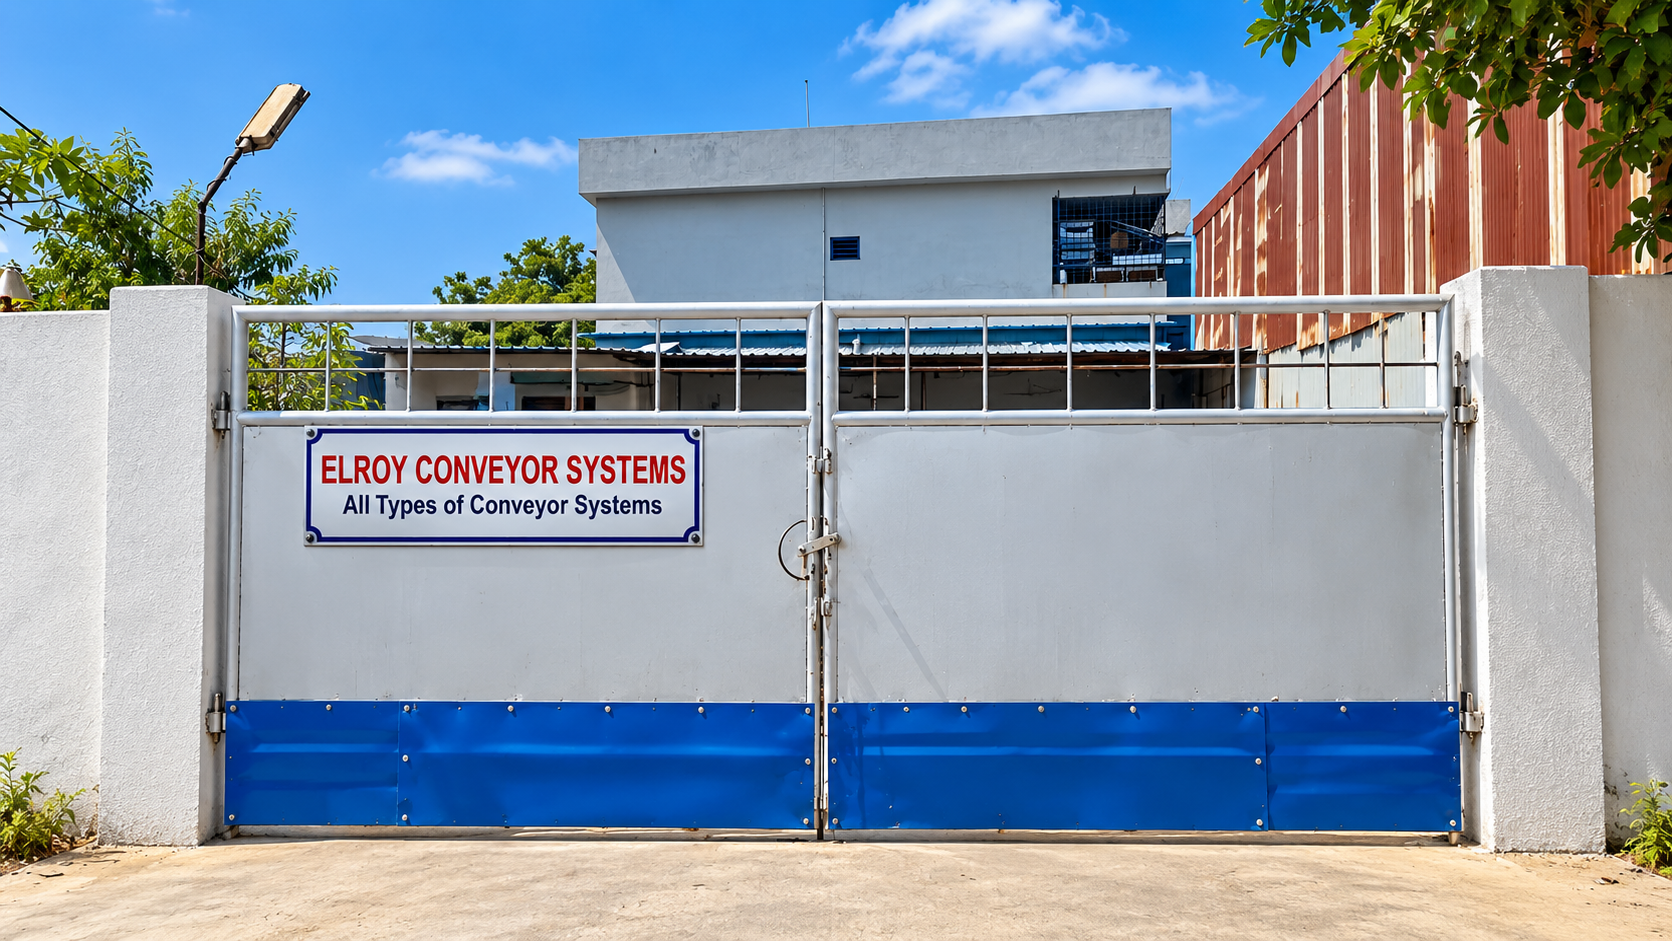
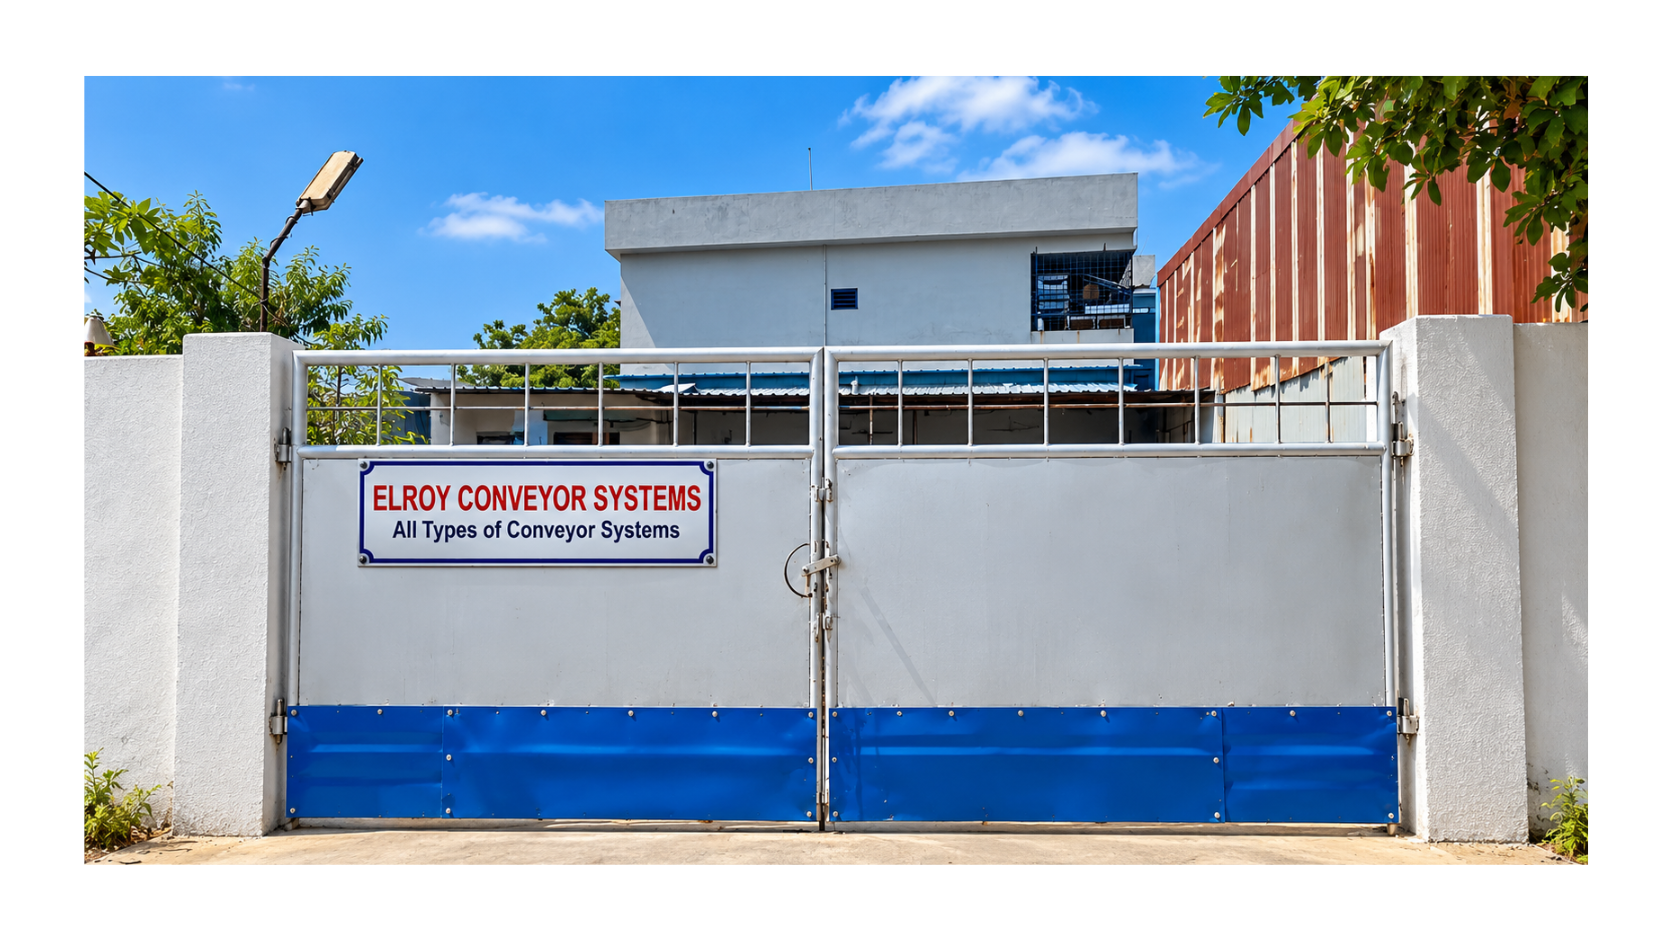
Update company factory photo

diff --git a/style.css b/style.css
@@ -4826,3 +4826,50 @@ main > section:not(.hero).scroll-reveal.is-visible {
         font-size: 11px;
     }
 }
+
+/* ELROY - Touch and press effects */
+.product-card,
+.service-card,
+.location-map,
+.factory-image,
+.primary-button {
+    -webkit-tap-highlight-color: transparent;
+    transition:
+        transform 0.25s ease,
+        box-shadow 0.25s ease,
+        border-color 0.25s ease;
+}
+
+/* Desktop hover */
+@media (hover: hover) and (pointer: fine) {
+    .product-card:hover,
+    .service-card:hover {
+        transform: translateY(-5px);
+        box-shadow: 0 14px 30px rgba(10, 58, 106, 0.14);
+    }
+
+    .primary-button:hover {
+        transform: translateY(-2px);
+        box-shadow: 0 8px 20px rgba(10, 58, 106, 0.2);
+    }
+}
+
+/* Mobile touch / press */
+.product-card:active,
+.service-card:active,
+.location-map:active,
+.factory-image:active,
+.primary-button:active {
+    transform: scale(0.98);
+}
+
+/* Accessibility: reduce motion when requested */
+@media (prefers-reduced-motion: reduce) {
+    .product-card,
+    .service-card,
+    .location-map,
+    .factory-image,
+    .primary-button {
+        transition: none;
+    }
+}
